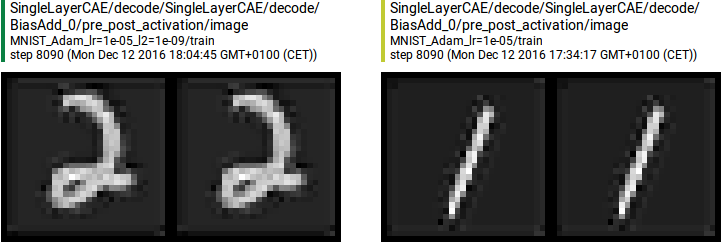
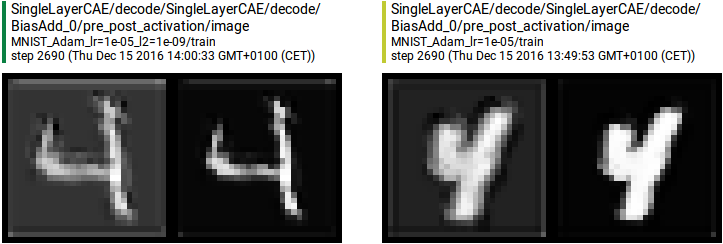
CAEs in TF: update with activation applied in decoder

diff --git a/_posts/2016-12-13-convolutional-autoencoders-in-tensorflow.md b/_posts/2016-12-13-convolutional-autoencoders-in-tensorflow.md
@@ -66,16 +66,11 @@ It's worth noting that every convolutional layer has the builtin support for the
 
 In fact, DTB adds to the collection `losses` a penalty term for every layer. Obviously, a `wd=0.0` disables the regularization.
 
-Another thing to note is that the decoding convolution has **no regularization** (`wd=0.0`) and **no activation function** (the filters are formed by linear neurons).
+Another thing to note is that the decoding convolution has **no regularization** (`wd=0.0`).
 
 This has been done because the produced activation maps should reproduce the input image.
-But if there's an activation function that squashes the input between values that are not in the range of the values of the input image, the reconstruction error will always be huge.
 
-Just think about a single pixel of a single channel image: $$p$$. This pixel has values in the range $$[0, 255]$$: the decoding layer, thus, should be capable of produce values within this range.
-
-If a non-linearity, like sigmoid $$\sigma(p) = \frac{1}{1 + e^{-p}}$$ is applied, it will produce a value for the reconstructed pixel that will be in the $$[0, 1]$$ range. Thus, there will always be a reconstruction error between $$p$$ and it's reconstructed counterpart $$\tilde{p}$$. Thinking about the case in which the value to reconstruct is $$255$$, the absolute error will span across $$[255-1, 255-0]$$, that's huge.
-
-The same reasoning can be done for what concerns the regularization term.
+The activation function chosen is the Hyperbolic tangent (tanh): this choice is guided by the fact that we want to constraint the output values to live in the same space of the input values. DTB pre-process every input image in order to get every pixel values beteen $$-1$$ and $$1$$. Since this is just the value of the codomain of the $$tanh$$ this is a natural choice.
 
 What is missing to do is to implement the loss function. Following the previous post, we implement the MSE loss. Since we're working with batches of $$n$$ images, the loss formula becomes:
 
@@ -226,11 +221,9 @@ See what regions are active (different from 0) after the application of an activ
     <cite title="MNIST learned filters">Visual representation of the learned filters on the MNIST dataset</cite>
 </footer>
 
-In the image we can see that the learned filters are different, but their combination is almost the same. A thing to note is that both models learned to reproduce the numbers correctly but not the black background: both produces a gray background.
+In the image we can see that the learned filters are different, but their combination is almost the same. A thing to note is that both models learned to reproduce the numbers (almost) correctly and the black background: this is because of the activation function added to the decoding layer. Previous tests with no activation applied showed how the CAE can learn to reproduce the numbers but not the background: it was gray instead of black. When the activation function is present, instead, it constrain the network to produce values that live in the same space of the input ones.
 
 DTB gives us another feedback that's helpful to deeply understand the pros and the cons of these implementations. The visualization of a single image, before and after the application function in the decoding layer.
-
-Since the decoding layer has no activation function applied the images are equal, but we can notice something interesting.
 
 {:.center}
 ![MNIST decode](/images/autoencoders/tf/mnist_decode.png)
@@ -239,7 +232,6 @@ Since the decoding layer has no activation function applied the images are equal
 </footer>
 
 If we look carefully we can see that both models produce artifacts on the borders of the reconstructed images: this is due to the initial padding operation that forces the network to learn a padded, thus not real, representation of the input.
-
 
 ## CIFAR 10
 
@@ -251,7 +243,7 @@ If we look carefully we can see that both models produce artifacts on the border
 
 As we just did for the MNSIT dataset, let's analyze in the same way the results obtained on the Cifar10 dataset.
 
-The graph shows the same 4 loss functions (reconstruction errors). With respect to the MNIST case, these losses are higher: they start from a high value and end at an higher value.
+The graph shows the same 4 loss functions (reconstruction errors). With respect to the MNIST case, these losses are higher: they start from a high value and end at a higher value.
 
 As in the MNIST case, the L2 penalty term affects the loss value making it higher.
 
@@ -300,7 +292,7 @@ Even in this case, the learned filters among the two models are different, but t
     <cite title="Cifar10 decode">A single decode image, for both models</cite>
 </footer>
 
-In this case the artifacts introduced by the padding operation are less marked, almost not present.
+In this case, the artifacts introduced by the padding operation are less marked but still presents.
 
 # Conclusions
 
